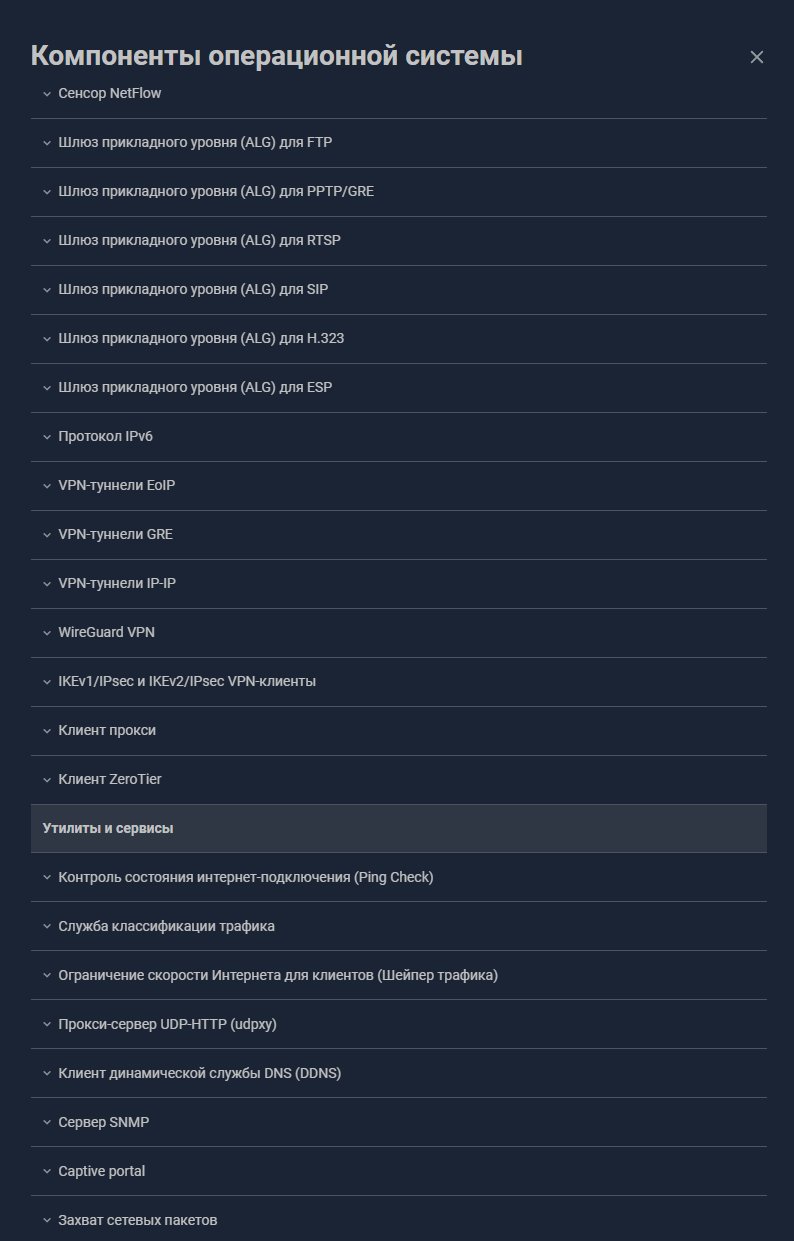
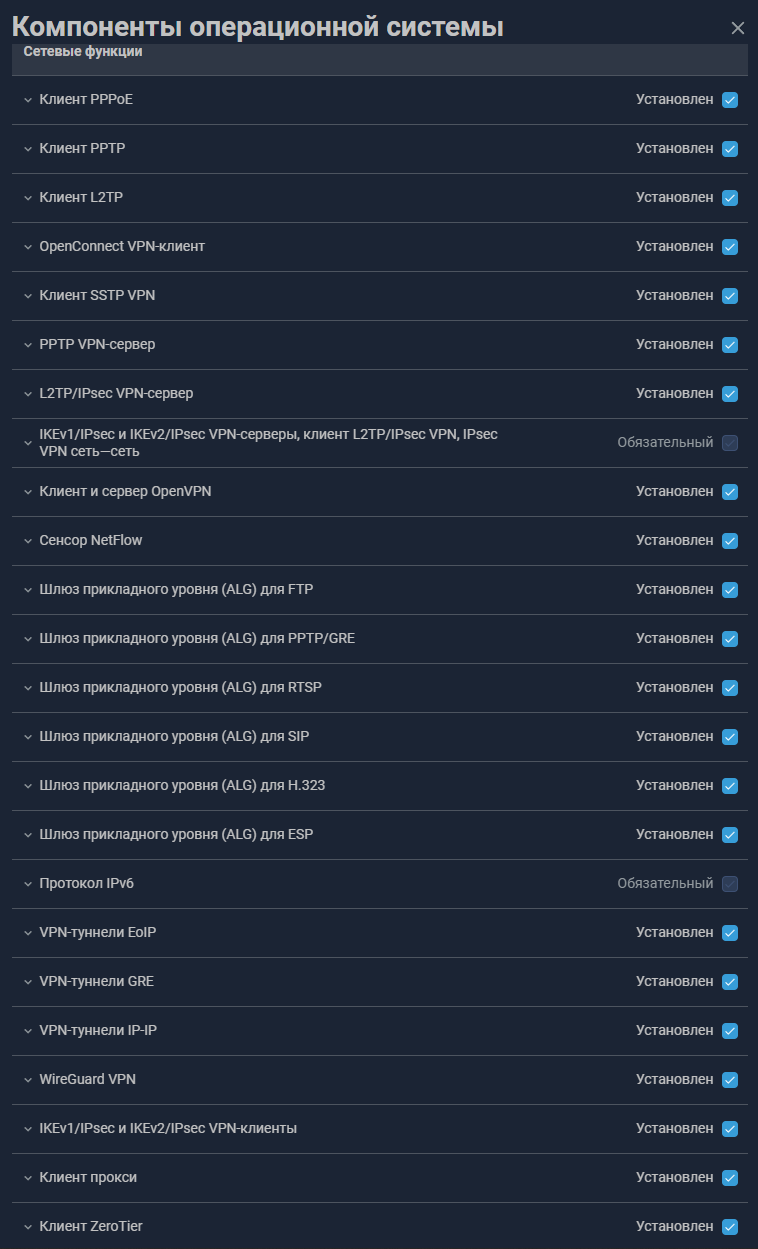
Add components list

diff --git a/wiki/guides/smartbox-flash.md b/wiki/guides/smartbox-flash.md
@@ -34,7 +34,7 @@
 
 Для обновления воспользуйтесь любым из [способов](/wiki/helpful/updateFirmware.md)
 
-## Установка с нуля
+## Установка
 
 1. Скачать архив, запустить `Start_Flash.bat`
 2. Если текущая прошивка выше 1.00.16, скрипт об этом скажет, в папке data есть `SmartBoxFlash_1.00.13_sign.trx` для отката обычным обновлением через веб-интерфейс. Скрипт так же запишет ваш eeprom в папку `firmware`

diff --git a/wiki/helpful/components.md b/wiki/helpful/components.md
@@ -9,3 +9,5 @@
 ![альтернативный текст](/assets/images/wiki/helpful/components/2.png){width=400px height=100px}
 
 ![альтернативный текст](/assets/images/wiki/helpful/components/3.png){width=400px height=100px}
+
+![альтернативный текст](/assets/images/wiki/helpful/components/4.png){width=400px height=100px}
